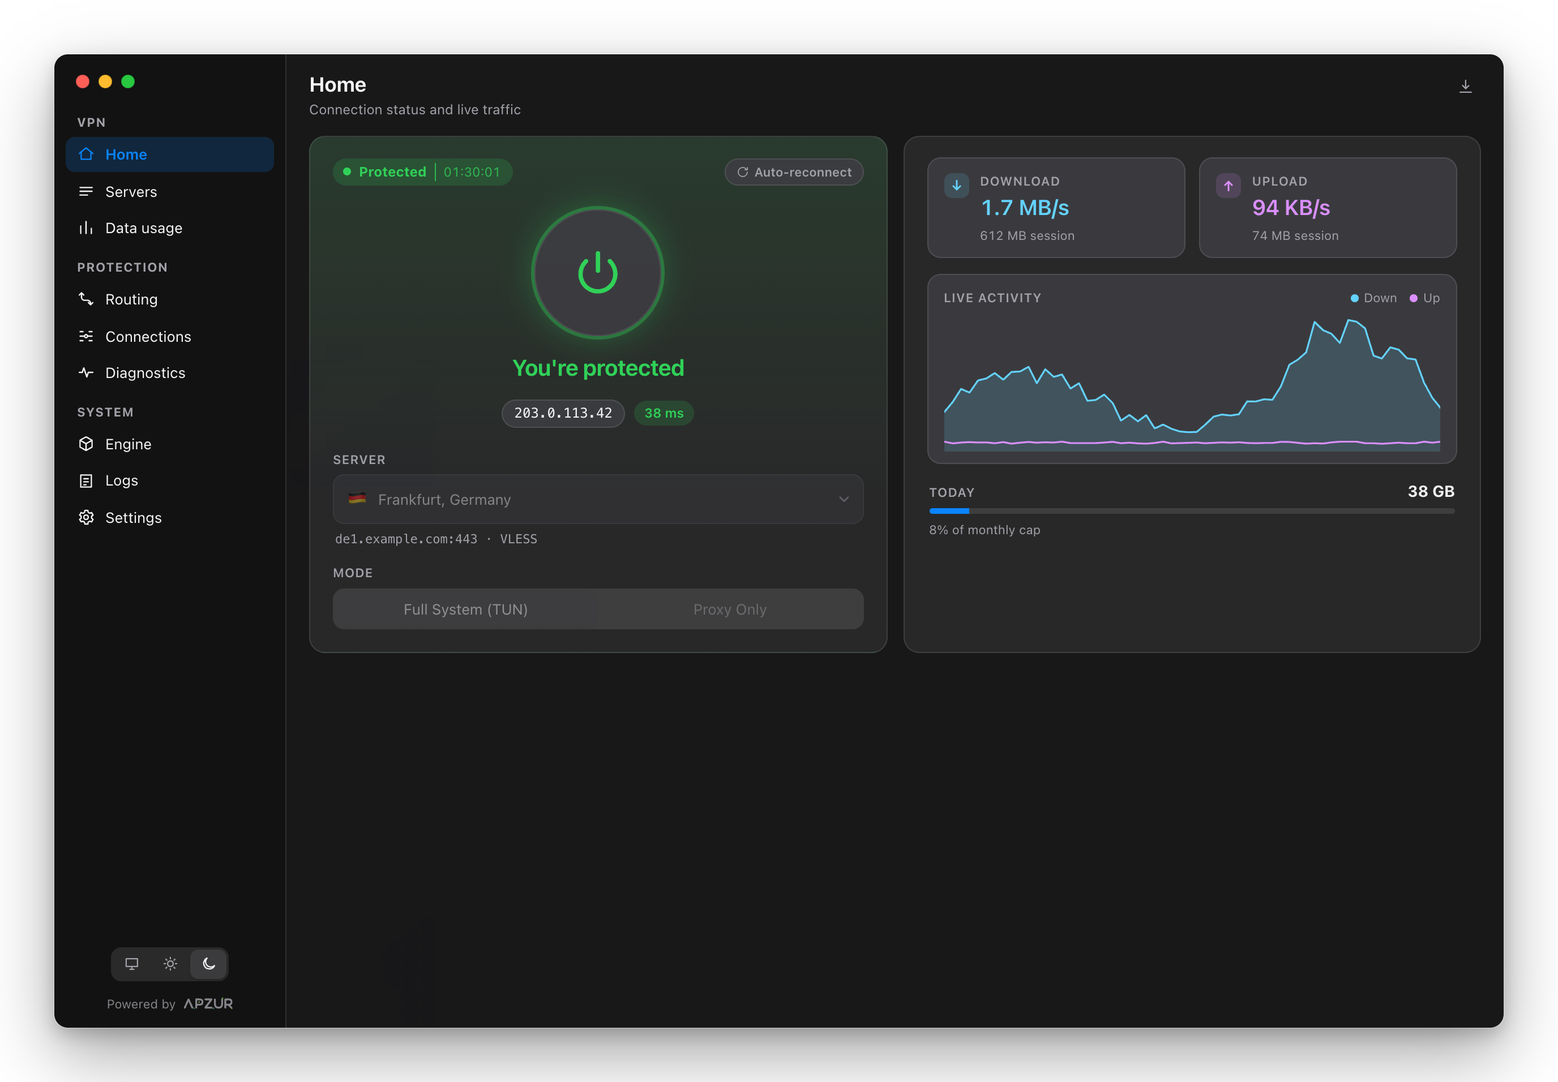
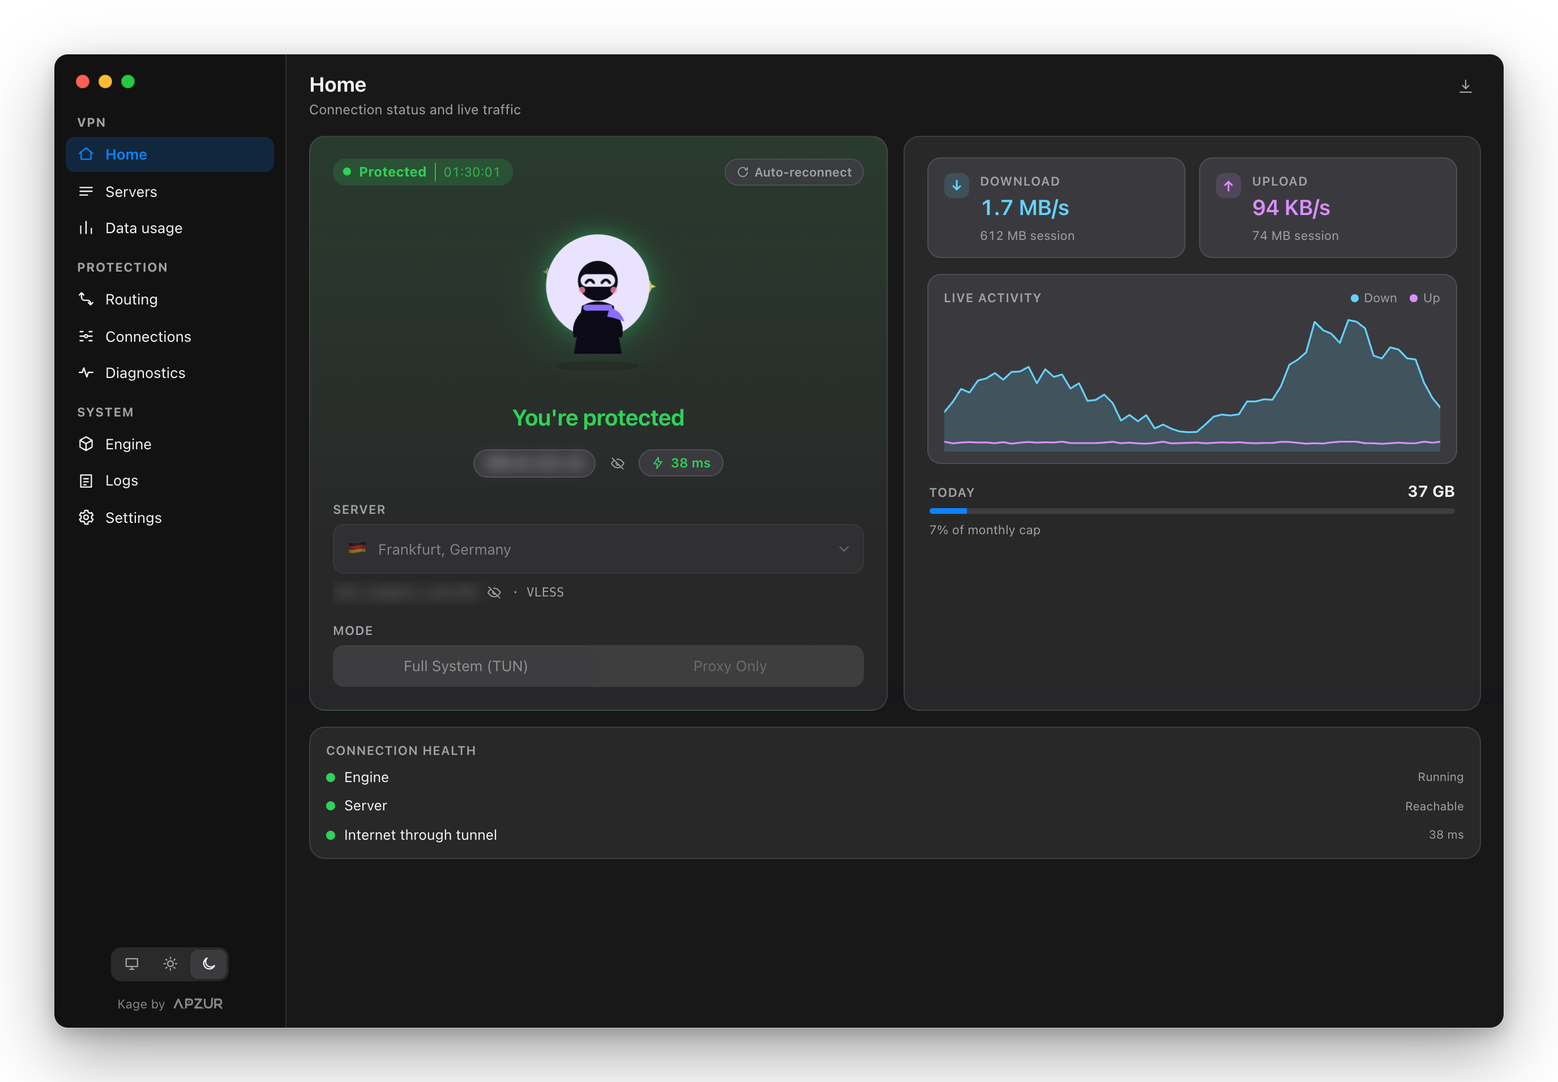
docs: update the guide, architecture notes, README and screenshots for the new features

diff --git a/docs-site/js/data/user-guide.js b/docs-site/js/data/user-guide.js
@@ -251,7 +251,7 @@ window.DOCS_PAGES["user-guide/routing-rules"] = {
 
 window.DOCS_PAGES["user-guide/kill-switch"] = {
   category: "User Guide",
-  title: "Kill Switch & Connection Watchdog",
+  title: "Kill Switch & Connection Health",
   featureBadge: "Fail-Safe",
   lead: "Prevent accidental IP leaks when a server disconnects or your Wi-Fi renegotiates using macOS packet filter (pfctl) locks.",
   heroImage: {
@@ -263,6 +263,8 @@ window.DOCS_PAGES["user-guide/kill-switch"] = {
     { id: "threat-model", label: "The Leak Threat Model" },
     { id: "pfctl-anchor-mechanism", label: "macOS pfctl Anchor Mechanism" },
     { id: "watchdog-monitoring", label: "Process Watchdog Loop" },
+    { id: "connection-health", label: "Connection Health Monitor" },
+    { id: "crash-log", label: "When the VPN Stops Unexpectedly" },
     { id: "manual-recovery", label: "Emergency Network Recovery" }
   ],
   contentHtml: `
@@ -298,7 +300,27 @@ window.DOCS_PAGES["user-guide/kill-switch"] = {
         The Rust backend polls the sing-box child PID. If the core terminates unexpectedly, the app flags it in the menu bar and starts the usual reconnect attempts.
       </p>
       <p>
-        Separately, a health monitor checks that traffic really flows through the tunnel: once right after connecting, then with one small request every 15 seconds. When checks fail, the app shows "Connected, but no internet" with the reason, and backs off to at most one check a minute. Turn on <strong>Restart a dead tunnel</strong> in Settings to have it restart automatically.
+        Separately, a health monitor checks that traffic really flows through the tunnel: once right after connecting, then with one small request every 15 seconds. When checks fail, the app shows "Connected, but no internet" with the reason, and backs off to at most one check a minute. Turn on <strong>Restart a dead tunnel</strong> in Settings to have it restart automatically. It also re-checks right away when your Mac wakes or changes network.
+      </p>
+
+      <h2 id="connection-health">Connection Health Monitor</h2>
+      <p>
+        "Connected" does not always mean "working": sing-box opens its local port even when the server is down. Kage therefore only shows <strong>You're protected</strong> after a real request has gone through the tunnel. While it checks, you see <strong>Checking your connection…</strong>.
+      </p>
+      <ul>
+        <li><strong>Protected (green):</strong> traffic flows. The latency pill shows the measured round trip.</li>
+        <li><strong>Connected, but no internet (red):</strong> the tunnel is up but traffic does not pass. The reason is one of <em>server not answering</em> (offline, blocked, wrong address or port), <em>server rejected the connection</em> (credentials, TLS or protocol settings) or <em>no traffic passes</em> (the server answers but DNS or routing is broken).</li>
+      </ul>
+      <p>
+        A red state offers <strong>Try another server</strong>, <strong>Reconnect</strong>, <strong>Diagnostics</strong> and <strong>Disconnect</strong>. The menu bar icon switches to a warning icon and the menu shows the status on its first line. When traffic returns, the status turns green on its own.
+      </p>
+      <p>
+        Before connecting, Kage also checks that the server name resolves and (for TCP protocols) accepts a connection, so an unusable server fails in seconds with a clear message. Hysteria2 uses UDP and skips the TCP check.
+      </p>
+
+      <h2 id="crash-log">When the VPN Stops Unexpectedly</h2>
+      <p>
+        If sing-box exits on its own, or the tunnel stops answering while sing-box is still running, Kage shows a notification with the reason (for example the exit status and the last error), a red banner on the home screen, and writes an entry to <code>crashes.log</code> in the data folder. Open it in the app from the banner's <strong>View crash log</strong> button or the <strong>Crash log</strong> button on the Logs page. It has Copy and Clear buttons.
       </p>
 
       <h2 id="manual-recovery">Emergency Network Recovery</h2>
@@ -371,26 +393,57 @@ window.DOCS_PAGES["user-guide/diagnostics-speedtest"] = {
 
 window.DOCS_PAGES["user-guide/data-usage"] = {
   category: "User Guide",
-  title: "Persistent Data Usage & Quotas",
+  title: "Data Usage & Limits",
   featureBadge: "Telemetry",
-  lead: "Monitor your bandwidth consumption across hours, days, and months. Store telemetry safely in a local SQLite database with write-ahead logging.",
+  lead: "See in plain words how much data you used, which apps and servers used it, and stay under your monthly limit. Everything is stored locally on your Mac.",
   heroImage: {
     src: "assets/images/usage.png",
-    alt: "Data Usage Analytics and Charts",
-    title: "Data Usage & Quota Tracking"
+    alt: "Data Usage page",
+    title: "Data Usage"
   },
   toc: [
+    { id: "reading-the-page", label: "Reading the Page" },
+    { id: "where-did-it-go", label: "Where Did It Go?" },
+    { id: "limits-privacy", label: "Limits & Privacy (Settings)" },
     { id: "usage-tracking", label: "Local Telemetry Engine" },
-    { id: "sqlite-wal", label: "SQLite WAL Performance" },
-    { id: "quota-warnings", label: "Data Cap Alerts" }
+    { id: "sqlite-wal", label: "SQLite WAL Performance" }
   ],
   contentHtml: `
     <div class="docs-prose">
+      <h2 id="reading-the-page">Reading the Page</h2>
+      <p>
+        The page opens on <strong>This month</strong>. Use the buttons in the header to switch to <strong>Today</strong>, <strong>7 days</strong> or <strong>Last month</strong>; <strong>More</strong> adds Yesterday, Last 30 days, your billing cycle and custom dates.
+      </p>
+      <ul>
+        <li><strong>You used…</strong> shows the total, how it compares with the previous period, and the split between downloaded and uploaded data.</li>
+        <li><strong>Per day, busiest day and time connected</strong> give you the shape of your usage at a glance.</li>
+        <li><strong>Monthly limit</strong> appears when you set one, with a bar showing how much is left.</li>
+        <li><strong>Day by day</strong> is a bar chart. Hover a bar for its total; click it to zoom in (a "Back to this month" link brings you back). <em>Chart options</em> lets you group by hour, day, week or month and compare with the previous period.</li>
+      </ul>
+
+      <h2 id="where-did-it-go">Where Did It Go?</h2>
+      <p>
+        Switch between <strong>Apps</strong>, <strong>Websites</strong> and <strong>Servers</strong> to see what used the data, with each one's share and its download and upload split. Click a row to show only that item; a "Showing only…" bar appears with a <strong>Show everything</strong> link. A <em>Filter by server or connection type</em> section at the bottom narrows the whole page further.
+      </p>
+
+      <h2 id="limits-privacy">Limits & Privacy (Settings)</h2>
+      <p>
+        The data limit and tracking options live in <strong>Settings</strong>, under <em>Data usage</em> and <em>Usage privacy</em>:
+      </p>
+      <ul>
+        <li><strong>Monthly data limit</strong>, the day the month starts, and what happens when the limit is reached (notify, or notify and disconnect).</li>
+        <li><strong>Track apps</strong> and <strong>Track websites</strong> (off by default), <strong>Pause counting</strong>, and how long app and website history is kept.</li>
+        <li><strong>Clear app and website history</strong> and <strong>Reset all usage</strong> (asks you to confirm).</li>
+      </ul>
+      <p>
+        You are alerted as you approach the limit. Per-app and per-website figures are estimates.
+      </p>
+
       <h2 id="usage-tracking">Local Telemetry Engine</h2>
       <p>
         Kage VPN periodically samples upload and download byte counters from sing-box's Clash API memory buffer. Unlike applications that clear statistics upon exit, Kage writes counters to an embedded local SQLite database located at:
       </p>
-      <code>~/Library/Application Support/com.apzur.kage/data/usage.db</code>
+      <code>~/Library/Application Support/com.apzur.kage/usage.db</code>
 
       <h2 id="sqlite-wal">SQLite Write-Ahead Logging (WAL)</h2>
       <p>
@@ -401,11 +454,6 @@ window.DOCS_PAGES["user-guide/data-usage"] = {
         <li><code>PRAGMA synchronous = NORMAL;</code> — Minimizes disk sync operations while guaranteeing atomic consistency.</li>
         <li><code>PRAGMA cache_size = -2000;</code> — Constrains memory footprint to just 2 MB RAM.</li>
       </ul>
-
-      <h2 id="quota-warnings">Data Cap Alerts</h2>
-      <p>
-        If your node provider or mobile hotspot imposes monthly limits (e.g., 200 GB / month), set a quota threshold in <strong>Settings &rarr; Usage Limits</strong>. Kage alerts you at 80% and 95% consumption.
-      </p>
     </div>
   `
 };

diff --git a/docs-site/js/data/getting-started.js b/docs-site/js/data/getting-started.js
@@ -122,7 +122,7 @@ window.DOCS_PAGES["getting-started/overview"] = {
           <span class="step-badge-tag">Ready</span>
         </div>
         <div class="step-body">
-          <p>Click the circular Power button in the dashboard or menu bar. Enter your macOS administrator password once if using TUN mode to authorize network interface creation.</p>
+          <p>Click the Kage mascot in the dashboard or menu bar popover. It wakes up and smiles once your connection is verified. Enter your macOS administrator password once if using TUN mode to authorize network interface creation.</p>
         </div>
       </div>
     </div>
@@ -255,13 +255,15 @@ window.DOCS_PAGES["getting-started/first-run"] = {
 
       <h2 id="menu-bar-controller">Menu Bar Quick Popover</h2>
       <p>
-        Clicking the shield icon in the macOS menu bar triggers an ultra-fast popover allowing you to:
+        Clicking the Kage icon in the macOS menu bar opens a quick popover. Its mascot is also the connect button: it sleeps when you are off, looks busy while connecting, smiles when you are protected, and looks worried when the tunnel is up but traffic is not flowing.
       </p>
       <ul>
-        <li><strong>Toggle Connection:</strong> One-tap connect or disconnect without interrupting your active workspace.</li>
-        <li><strong>Server Switcher:</strong> Quickly swap between favorite nodes with live latency indicators.</li>
-        <li><strong>Realtime Speeds:</strong> Instant glance at current upload (TX) and download (RX) throughput.</li>
-        <li><strong>Mode Indicator:</strong> See whether Full System TUN or Proxy Only mode is currently operational.</li>
+        <li><strong>Toggle Connection:</strong> One-tap connect or disconnect by clicking the mascot.</li>
+        <li><strong>Status at a glance:</strong> A headline ("You're protected", "Checking…", "No internet") with a latency pill you can tap to re-test.</li>
+        <li><strong>Server, timer and IP:</strong> The current server, how long you have been connected, and your exit IP (hidden until you click the eye). While disconnected this row is a server picker.</li>
+        <li><strong>Data usage:</strong> Live download and upload speed, today's total and a live graph.</li>
+        <li><strong>Mode switch:</strong> Full System TUN or Proxy Only, locked while connected.</li>
+        <li><strong>Menu bar menu:</strong> Right-click the icon for a status line, Connect, Ping Server and Quit.</li>
       </ul>
 
       <h2 id="main-dashboard">Full Dashboard Window</h2>
@@ -271,9 +273,10 @@ window.DOCS_PAGES["getting-started/first-run"] = {
       <ul>
         <li><strong>Servers:</strong> Comprehensive node organizer, latency pings, and subscription manager.</li>
         <li><strong>Routing:</strong> Rule-based traffic routing editor with direct GeoIP / GeoSite bypasses.</li>
-        <li><strong>Connections:</strong> Live socket inspector powered by sing-box's Clash API ring buffer.</li>
+        <li><strong>Connections:</strong> An <em>Apps</em> view showing which apps are sending and receiving data right now (with live speeds), and a <em>Connections</em> view with every open socket, powered by sing-box's Clash API.</li>
         <li><strong>Diagnostics:</strong> One-click DNS and IPv6 leak diagnostics and latency graphs.</li>
-        <li><strong>Settings:</strong> Kill switch activation, core engine updater, and privacy toggles.</li>
+        <li><strong>Data usage:</strong> This month's total, a day-by-day chart and what used the data.</li>
+        <li><strong>Settings:</strong> Kill switch, reliability, data limit, usage privacy and app updates.</li>
       </ul>
 
       <h2 id="permission-setup">Initial Permission Authorization</h2>

diff --git a/docs-site/js/data/architecture.js b/docs-site/js/data/architecture.js
@@ -172,7 +172,9 @@ window.DOCS_PAGES["architecture/core-supervision"] = {
   toc: [
     { id: "orphan-problem", label: "The Orphan Process Risk" },
     { id: "stopfile-handshake", label: "The .stop Handshake Protocol" },
-    { id: "pid-monitoring", label: "PID Reaping & Signal Traps" }
+    { id: "pid-monitoring", label: "PID Reaping & Signal Traps" },
+    { id: "health-monitor", label: "Tunnel Health Monitor" },
+    { id: "crash-records", label: "Unexpected Stops" }
   ],
   contentHtml: `
     <div class="docs-prose">
@@ -223,6 +225,19 @@ window.DOCS_PAGES["architecture/core-supervision"] = {
       <h2 id="pid-monitoring">PID Reaping & Signal Traps</h2>
       <p>
         If sing-box does not terminate within the grace period, <code>helper.sh</code> issues a forced <code>SIGKILL</code> (<code>kill -9</code>) and runs a thorough cleanup on all leftover pfctl rules, guaranteeing that the user's internet is restored without manual rebooting.
+      </p>
+
+      <h2 id="health-monitor">Tunnel Health Monitor</h2>
+      <p>
+        The sing-box port opening says nothing about whether the server works, so <code>health.rs</code> verifies the tunnel. After connecting, a staged probe asks sing-box for the delay of the <code>proxy</code> outbound (Clash API) and makes a request through the local proxy; only a passing request sets <code>Status.health</code> to <code>healthy</code>. A pure <code>classify</code> function turns the two results plus the last sing-box error into a cause: <code>serverUnreachable</code>, <code>handshake</code> or <code>noTraffic</code>.
+      </p>
+      <p>
+        One monitor task per connection then sends a single small request every 15 seconds, confirms a failure after 3 seconds, runs the full probe on the second failure, backs off up to 60 seconds while down, and optionally restarts the tunnel after four failures. It shares one cached HTTP client and wakes early on <code>network_watch</code> events. <code>session::connect</code> also runs a DNS and TCP preflight (<code>health::preflight</code>) before starting sing-box. Do not lock <code>AppState.status</code> inside an event listener: <code>session::update</code> emits while holding that lock.
+      </p>
+
+      <h2 id="crash-records">Unexpected Stops</h2>
+      <p>
+        When <code>session::finish</code> sees the supervisor disappear without a stop request, or <code>tunnel_lost</code> fires, <code>crashlog.rs</code> appends an entry (time, reason, sing-box exit status from <code>sing-box.stderr.log</code>, last errors) to <code>crashes.log</code>, which is trimmed to its newest half past 200 KB. The same reason feeds the notification and <code>Status.failure</code>, an <code>ErrorInfo</code> built by <code>AppError::info()</code>.
       </p>
     </div>
   `

diff --git a/docs-site/js/data/changelog.js b/docs-site/js/data/changelog.js
@@ -28,6 +28,7 @@ window.DOCS_PAGES["changelog/changelog"] = {
         <li><strong>New:</strong> The Connections page has an <strong>Apps</strong> view: every app using the VPN with its live sending and receiving speed and how much it has sent and received. Click an app to see which servers it is talking to.</li>
         <li><strong>New:</strong> When sing-box or the tunnel stops on its own, you get a notification with the reason (exit status and last error), a banner in the app, and an entry in <code>crashes.log</code> in the data folder. Open it from the banner or the <strong>Crash log</strong> button on the Logs page.</li>
         <li><strong>Changed:</strong> The <strong>Data usage</strong> page is redesigned. It opens on <em>This month</em> and says in plain words how much you used and how that compares with last month. Choose Today, 7 days, This month or Last month with one tap. A new "Where did it go?" list shows which apps, websites and servers used the data. The confusing filters moved into optional sections. The data limit and usage privacy options moved to <strong>Settings</strong>, under their own Data usage and Usage privacy sections.</li>
+        <li><strong>Improved:</strong> The menu bar popover shows the latency as a pill under the headline, and its usage graph now fills the free space.</li>
         <li><strong>Changed:</strong> The Kage mascot is now the connect button on the home screen and in the menu bar popover, with a face that shows whether you are protected.</li>
         <li><strong>Changed:</strong> "Connection watchdog" is now "Restart a dead tunnel". Monitoring is always on, and the setting only controls whether a dead tunnel is restarted automatically.</li>
       </ul>

diff --git a/docs-site/js/data/developer-guide.js b/docs-site/js/data/developer-guide.js
@@ -170,6 +170,9 @@ window.DOCS_PAGES["developer-guide/rust-backend"] = {
         <li><code>profile/</code>: Pluggable protocol registry and <code>ProtocolDef</code> trait implementations.</li>
         <li><code>core/</code>: Process lifecycle management, ping tester, and Clash API client.</li>
         <li><code>helper/</code>: Integration with <code>helper.sh</code> and root privilege handshakes.</li>
+        <li><code>health.rs</code>: Tunnel verification, the background health monitor, failure classification and connect preflight.</li>
+        <li><code>crashlog.rs</code>: The <code>crashes.log</code> record of unexpected stops, shown in the app by the Crash log dialog.</li>
+        <li><code>error.rs</code>: <code>AppError</code> and <code>ErrorInfo</code> (title, detail, suggested action) shown in the UI banner.</li>
       </ul>
 
       <h2 id="app-config">The app_config.rs Module</h2>

diff --git a/docs-site/js/data/navigation.js b/docs-site/js/data/navigation.js
@@ -56,7 +56,7 @@ window.DOCS_NAVIGATION = [
       },
       {
         slug: "user-guide/kill-switch",
-        title: "Kill Switch & Watchdog",
+        title: "Kill Switch & Connection Health",
         badge: "Safety",
         description: "macOS pfctl anchor locks preventing traffic leaks during disconnects."
       },
@@ -68,7 +68,7 @@ window.DOCS_NAVIGATION = [
       },
       {
         slug: "user-guide/data-usage",
-        title: "Data Usage & Quotas",
+        title: "Data Usage & Limits",
         badge: "Telemetry",
         description: "Tracking hourly, daily, and monthly bandwidth with SQLite persistence."
       }

diff --git a/README.md b/README.md
@@ -63,7 +63,7 @@ Then open the app normally. You only need to do this once per downloaded version
 1. A short **welcome tour** explains the basics. You can replay it from **Settings → Help**.
 2. **Download the engine.** If sing-box is not installed, the app offers to download the official release, checks its published checksum, and keeps it in its own folder. If you already installed sing-box with Homebrew, the app uses that and skips the prompt.
 3. **Add a server.** Paste a server link (or several, mixed protocols are fine), drop a text file, or add a subscription URL.
-4. **Connect.** Press the big power button. In **Full System (TUN)** mode macOS asks for your administrator password once so the app can create the tunnel.
+4. **Connect.** Click the Kage mascot. In **Full System (TUN)** mode macOS asks for your administrator password once so the app can create the tunnel.
 
 ### Uninstall
 
@@ -85,7 +85,7 @@ Then open the app normally. You only need to do this once per downloaded version
 - **One-click connection** with a clear status: protected, connecting or not protected, plus session time, exit IP and latency.
 - **Two modes.** *Full System (TUN)* sends all of your Mac's traffic through the VPN. *Proxy Only* runs a local proxy on `127.0.0.1:2080` for just the apps you point at it.
 - **Five protocols.** VLESS (TLS or Reality), VMess, Trojan, Shadowsocks (including the 2022 ciphers) and Hysteria2 (with Salamander obfuscation). VLESS, VMess and Trojan run over TCP, WebSocket, gRPC or HTTPUpgrade.
-- **Menu-bar app** with live download and upload speed beside the icon, and a compact popover to connect, switch mode and see traffic.
+- **Menu-bar app** with live download and upload speed beside the icon, and a compact popover led by the Kage mascot, which is also the connect button and shows at a glance whether you are protected. The popover has a latency pill, server and timer, live traffic and a mode switch, and shows loading skeletons while data loads.
 - **Hide addresses.** Server addresses and IP addresses are blurred until you click the eye icon (next to the IP address, in the app and in the menu-bar popover), so screen shares and screenshots do not give them away. The choice is remembered.
 - **Optional global shortcut** (⌥⌘V, off by default) to connect or disconnect from anywhere.
 - **Launch at login** and **connect on launch**.
@@ -100,15 +100,17 @@ Then open the app normally. You only need to do this once per downloaded version
 
 ### Protection and reliability
 
-- **Auto-reconnect** when the tunnel drops, and an optional **connection watchdog** that checks the tunnel on a timer.
+- **Verified connections.** The app says "You're protected" only after a real request has gone through the tunnel, keeps checking in the background, and tells you why when traffic stops (server not answering, server rejected the connection, or no traffic). Failed connects explain what went wrong, with a fix button.
+- **Auto-reconnect** when the tunnel drops, and an optional **restart a dead tunnel** setting.
+- **Crash log.** If sing-box or the tunnel stops on its own you get a notification with the reason, and an entry in a crash log you can open inside the app.
 - **Kill switch** (experimental, TUN mode) that blocks traffic if the tunnel stops unexpectedly.
 - **Routing rules** with Global, Rules and Direct modes. Match by domain, domain suffix, keyword, IP range or app name, send traffic through the VPN, direct, or block it, add country lists, bypass your local network, and choose your DNS resolver. A built-in tester shows which rule a domain would hit.
-- **Live connections** table showing every open connection, its app, destination, route and traffic, with the option to close any of them.
+- **Live connections** with an **Apps** view (which app is sending and receiving data right now, with live speeds) and a table of every open connection, its app, destination, route and traffic, with the option to close any of them.
 
 ### Insight
 
 - **Diagnostics** with a leak check (tunnel IP, system route and DNS resolver side by side) and a live **speed test** gauge for ping, jitter, download and upload through the tunnel.
-- **Data usage** by day, week or month, broken down by app, site and server, with an optional monthly cap and alerts. Export to CSV. Detailed app and site recording can be turned off.
+- **Data usage** that opens on this month in plain language, with a day-by-day chart and a "Where did it go?" list of apps, sites and servers. An optional monthly limit and the privacy options live in Settings. Export to CSV. Detailed app and site recording can be turned off.
 - **Logs** with level filters, search and plain-language hints for common errors.
 
 ### Engine and updates
